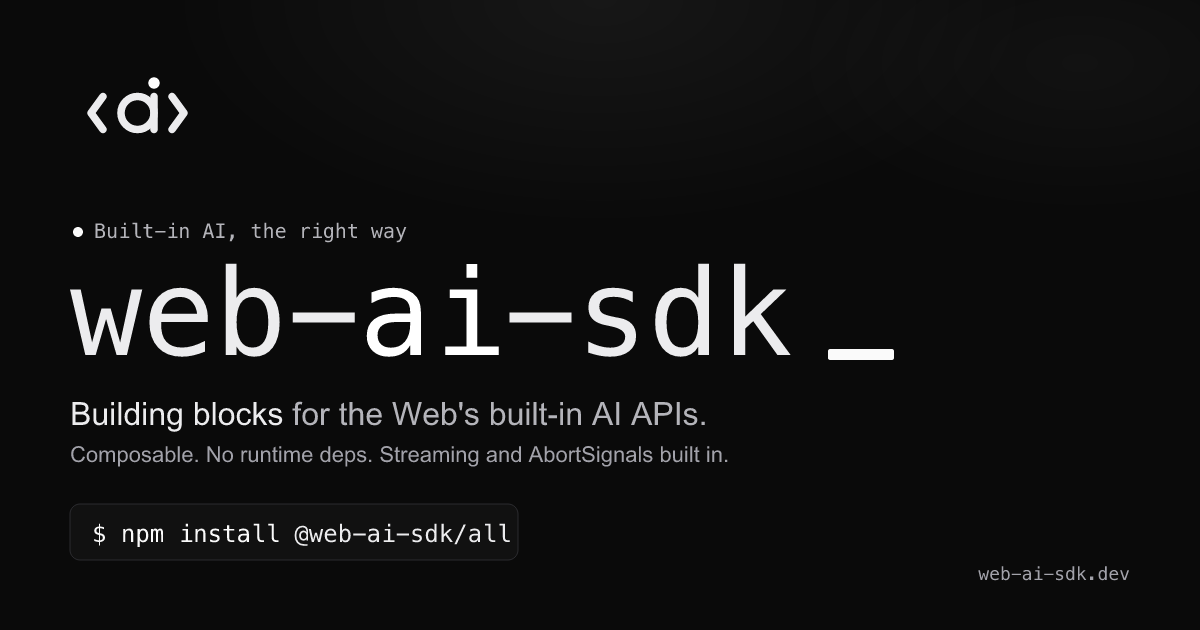
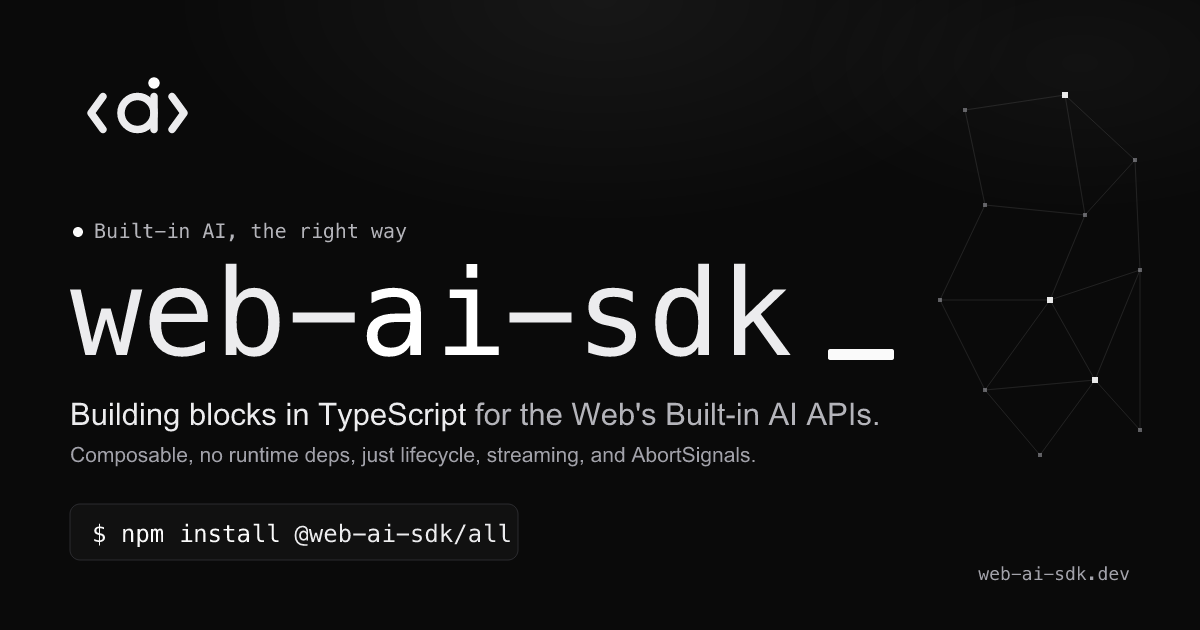
fix(site): dedupe React in dev, correct Edge support, refresh landing + OG
- Dedupe React and pre-bundle every @web-ai-sdk/*/react subpath in the
  Astro Vite config so lazy optimizeDeps re-optimization no longer yields a
  transient duplicate React ("Invalid hook call") when navigating demos.
- Correct Edge browser-support data against Microsoft Learn: Translator and
  Language Detector are now stable 148+ (no flag), and Prompt/Writer/Rewriter/
  Proofreader are shown as flag-gated Canary/Dev. Synced across the homepage
  table, browser-support.mdx, package READMEs, generated package docs, and the
  Translator/Detector demo hints.
- Make support-table version badges link to their source (Chrome for
  Developers / Microsoft Learn), color-code by status, drop the odd flag
  border, and compact the legend (with an origin-trial link).
- Landing copy: new "Building blocks in TypeScript ..." tagline across hero,
  meta/OG/structured-data, docs intro, README, and llms; reworked the
  "Why not raw?" section; switched package bullets to dots.
- Refresh og-image.png to the current identity (node-mesh motif + new wording).
- Jump instantly to #anchor on load (no smooth-scroll animation), then restore
  smooth scrolling for in-page nav.
- Balance the final CTA section's bottom spacing with its top.

Changed region(s): [[0.0617, 0.6333, 0.74, 0.754]]

diff --git a/apps/site/src/shared/ui.ts b/apps/site/src/shared/ui.ts
@@ -191,10 +191,7 @@ export const heroTitle =
   "flex flex-nowrap items-baseline gap-[0.1em] font-mono text-[clamp(54px,9vw,112px)] leading-[0.95] font-medium tracking-[-0.04em] max-[640px]:text-[56px] max-[480px]:text-[44px]";
 
 export const subhead =
-  "max-w-[640px] text-[clamp(17px,1.6vw,20px)] leading-[1.5] tracking-[-0.01em] text-fg-2 [&_strong]:font-medium [&_strong]:text-fg";
-
-export const subheadSub =
-  "mt-2 block text-[clamp(14px,1.2vw,15.5px)] leading-[1.55] text-fg-3";
+  "max-w-[820px] text-[clamp(17px,1.6vw,20px)] leading-[1.5] tracking-[-0.01em] text-fg-2 [&_strong]:font-medium [&_strong]:text-fg";
 
 export const ctaRow =
   "mt-2 flex flex-wrap items-center gap-3 max-[640px]:gap-2.5";
@@ -244,7 +241,7 @@ export const pkgTag =
   "mb-6 max-w-[30ch] text-[17px] tracking-[-0.01em] text-fg-2";
 
 export const pkgBullets =
-  "mb-6 grid list-none gap-[9px] p-0 [&_li]:flex [&_li]:items-start [&_li]:gap-3 [&_li]:text-sm [&_li]:text-fg-2 [&_li]:before:mt-[11px] [&_li]:before:h-px [&_li]:before:w-1.5 [&_li]:before:shrink-0 [&_li]:before:bg-accent [&_li]:before:content-[''] [&_b]:font-medium [&_b]:text-fg";
+  "mb-6 grid list-none gap-[9px] p-0 [&_li]:flex [&_li]:items-start [&_li]:gap-3 [&_li]:text-sm [&_li]:text-fg-2 [&_li]:before:mt-[7px] [&_li]:before:size-1 [&_li]:before:shrink-0 [&_li]:before:rounded-full [&_li]:before:bg-accent [&_li]:before:content-[''] [&_b]:font-medium [&_b]:text-fg";
 
 export const pkgActions = "flex w-fit max-w-full flex-col items-start gap-4";
 
@@ -262,6 +259,15 @@ export const pkgDocsArrow =
   "transition-transform group-hover:translate-x-[3px]";
 
 export const twoCol = "grid grid-cols-2 gap-8 max-[880px]:grid-cols-1";
+
+export const whyRawGrid =
+  "grid max-w-[1100px] grid-cols-[minmax(0,0.95fr)_minmax(0,1.05fr)] gap-x-14 gap-y-6 max-[880px]:grid-cols-1";
+
+export const whyRawLead =
+  "max-w-[520px] text-[25px] leading-[1.35] tracking-[-0.03em] text-fg max-[640px]:text-[20px]";
+
+export const whyRawText =
+  "max-w-[580px] text-[16.5px] leading-[1.8] text-fg-2 max-[640px]:text-[15.5px]";
 
 export const philosophyCardBody = "p-5 max-[480px]:p-4";
 
@@ -324,7 +330,20 @@ export const supportHead =
 
 export const supportRowHead = "bg-surface-2 text-[12.5px] font-normal text-fg";
 
-export const supportVersion = "text-accent";
+export const supportVersion =
+  "inline-block rounded-sm bg-surface-3 px-2 py-[3px] text-[11px] tracking-[0.04em]";
+
+export const supportVersionOk =
+  "bg-[color-mix(in_oklch,var(--color-ok)_15%,var(--color-surface-3))] text-ok";
+
+export const supportVersionPreview =
+  "bg-[color-mix(in_oklch,var(--color-warn)_18%,var(--color-surface-3))] text-warn";
+
+export const supportVersionFlag =
+  "bg-[color-mix(in_oklch,var(--color-fg-4)_18%,var(--color-surface-3))] text-fg-3";
+
+export const supportVersionLink =
+  "no-underline transition-colors hover:underline underline-offset-2 focus-visible:outline-2 focus-visible:outline-offset-2 focus-visible:outline-accent";
 
 export const supportPill =
   "inline-block rounded-sm bg-surface-3 px-2 py-[3px] text-[11px] tracking-[0.04em] text-fg-3";
@@ -336,7 +355,7 @@ export const supportPillWarn =
   "bg-[color-mix(in_oklch,var(--color-warn)_18%,var(--color-surface-3))] text-warn";
 
 export const supportNote =
-  "mt-3.5 font-mono text-[11.5px] leading-[1.6] tracking-[0.02em] text-fg-4";
+  "mt-3 font-mono text-[10.5px] leading-[1.5] tracking-[0.02em] text-fg-4";
 
 export const ctaBlock =
   "rounded-lg bg-surface shadow-card bg-[radial-gradient(600px_200px_at_50%_0%,var(--color-accent-soft),transparent_70%)] px-14 py-14 text-center max-[880px]:px-6 max-[880px]:py-9";

diff --git a/apps/site/src/features/home/components/DetectorDemo.tsx b/apps/site/src/features/home/components/DetectorDemo.tsx
@@ -138,7 +138,7 @@ export const DetectorDemo = () => {
           ) : (
             <span className="text-fg-4 italic">
               {available === false
-                ? "Open in Chrome 138+ or Edge Canary/Dev 147+ to detect."
+                ? "Open in Chrome 138+ or Edge 148+ to detect."
                 : status === "idle"
                   ? "Type or paste text above."
                   : status === "loading"

diff --git a/apps/site/src/features/home/components/TranslatorDemo.tsx b/apps/site/src/features/home/components/TranslatorDemo.tsx
@@ -192,7 +192,7 @@ export const TranslatorDemo = () => {
           streaming={running}
           placeholder={
             available === false
-              ? "Open in Chrome 138+ or Edge Canary/Dev 143+ to translate."
+              ? "Open in Chrome 138+ or Edge 148+ to translate."
               : `Translation (${to}) will appear here.`
           }
         />

diff --git a/apps/site/src/content/docs/packages/detector.md b/apps/site/src/content/docs/packages/detector.md
@@ -11,7 +11,7 @@ Building block for [the Web's Built-in Language Detector API](https://developer.
 
 ## Status
 
-Language Detector ships stable in Chrome 138+ on desktop. On Edge it is a developer preview starting at Canary/Dev 147+ behind `edge://flags/#edge-language-detection-api` (per the [Edge Language Detector API docs](https://learn.microsoft.com/en-us/microsoft-edge/web-platform/languagedetector-api)) — not yet in Edge stable. On any other browser this library is a no-op for the React hook (it stays in `"unavailable"`). The vanilla `detect()` throws `DetectorUnavailableError` so callers can branch explicitly.
+Language Detector ships stable in Chrome 138+ and Edge 148+ on desktop, with no flag required (per the [Edge Language Detector API docs](https://learn.microsoft.com/en-us/microsoft-edge/web-platform/languagedetector-api)). On any other browser this library is a no-op for the React hook (it stays in `"unavailable"`). The vanilla `detect()` throws `DetectorUnavailableError` so callers can branch explicitly.
 
 ## Install
 

diff --git a/packages/detector/README.md b/packages/detector/README.md
@@ -6,7 +6,7 @@ Building block for [the Web's Built-in Language Detector API](https://developer.
 
 ## Status
 
-Language Detector ships stable in Chrome 138+ on desktop. On Edge it is a developer preview starting at Canary/Dev 147+ behind `edge://flags/#edge-language-detection-api` (per the [Edge Language Detector API docs](https://learn.microsoft.com/en-us/microsoft-edge/web-platform/languagedetector-api)) — not yet in Edge stable. On any other browser this library is a no-op for the React hook (it stays in `"unavailable"`). The vanilla `detect()` throws `DetectorUnavailableError` so callers can branch explicitly.
+Language Detector ships stable in Chrome 138+ and Edge 148+ on desktop, with no flag required (per the [Edge Language Detector API docs](https://learn.microsoft.com/en-us/microsoft-edge/web-platform/languagedetector-api)). On any other browser this library is a no-op for the React hook (it stays in `"unavailable"`). The vanilla `detect()` throws `DetectorUnavailableError` so callers can branch explicitly.
 
 ## Install
 

diff --git a/packages/translator/README.md b/packages/translator/README.md
@@ -6,7 +6,7 @@ Building block for the Web's Built-in [Translator API](https://developer.chrome.
 
 ## Status
 
-Translator API is stable in Chrome 138+ on desktop. On Edge it is a developer preview starting at Canary/Dev 143+ behind `edge://flags/#edge-translation-api` (per the [Edge Translator API docs](https://learn.microsoft.com/en-us/microsoft-edge/web-platform/translator-api)) — not yet in Edge stable. On any other browser this library is a no-op. Your app stays callable, and the controller just resolves with `blocksTranslated: 0`.
+Translator API is stable in Chrome 138+ and Edge 148+ on desktop, with no flag required (per the [Edge Translator API docs](https://learn.microsoft.com/en-us/microsoft-edge/web-platform/translator-api)). On any other browser this library is a no-op. Your app stays callable, and the controller just resolves with `blocksTranslated: 0`.
 
 ## Install
 

diff --git a/README.md b/README.md
@@ -6,7 +6,7 @@ A small, focused monorepo of framework-agnostic packages that smooth over the gn
 
 ## What it is
 
-**`web-ai-sdk`** ships one package per browser capability. Zero runtime dependencies. Vanilla TypeScript by default, with optional React hooks. That's it. The SDK tracks a moving browser spec and intentionally stays out of the way of *how* you build an app.
+**`web-ai-sdk`** ships one package per browser capability. Zero runtime dependencies. Written in TypeScript. That's it. The SDK tracks a moving browser spec and intentionally stays out of the way of *how* you build an app.
 
 Compositions that bond multiple primitives (block-level DOM translation,
 article-aware summarization, detect-then-summarize chains) are

diff --git a/apps/site/src/content/docs/packages/translator.md b/apps/site/src/content/docs/packages/translator.md
@@ -11,7 +11,7 @@ Building block for the Web's Built-in [Translator API](https://developer.chrome.
 
 ## Status
 
-Translator API is in Chrome 138+ and Edge 138+ stable on desktop. On any other browser this library is a no-op. Your app stays callable, and the controller just resolves with `blocksTranslated: 0`.
+Translator API is stable in Chrome 138+ and Edge 148+ on desktop, with no flag required (per the [Edge Translator API docs](https://learn.microsoft.com/en-us/microsoft-edge/web-platform/translator-api)). On any other browser this library is a no-op. Your app stays callable, and the controller just resolves with `blocksTranslated: 0`.
 
 ## Install
 
